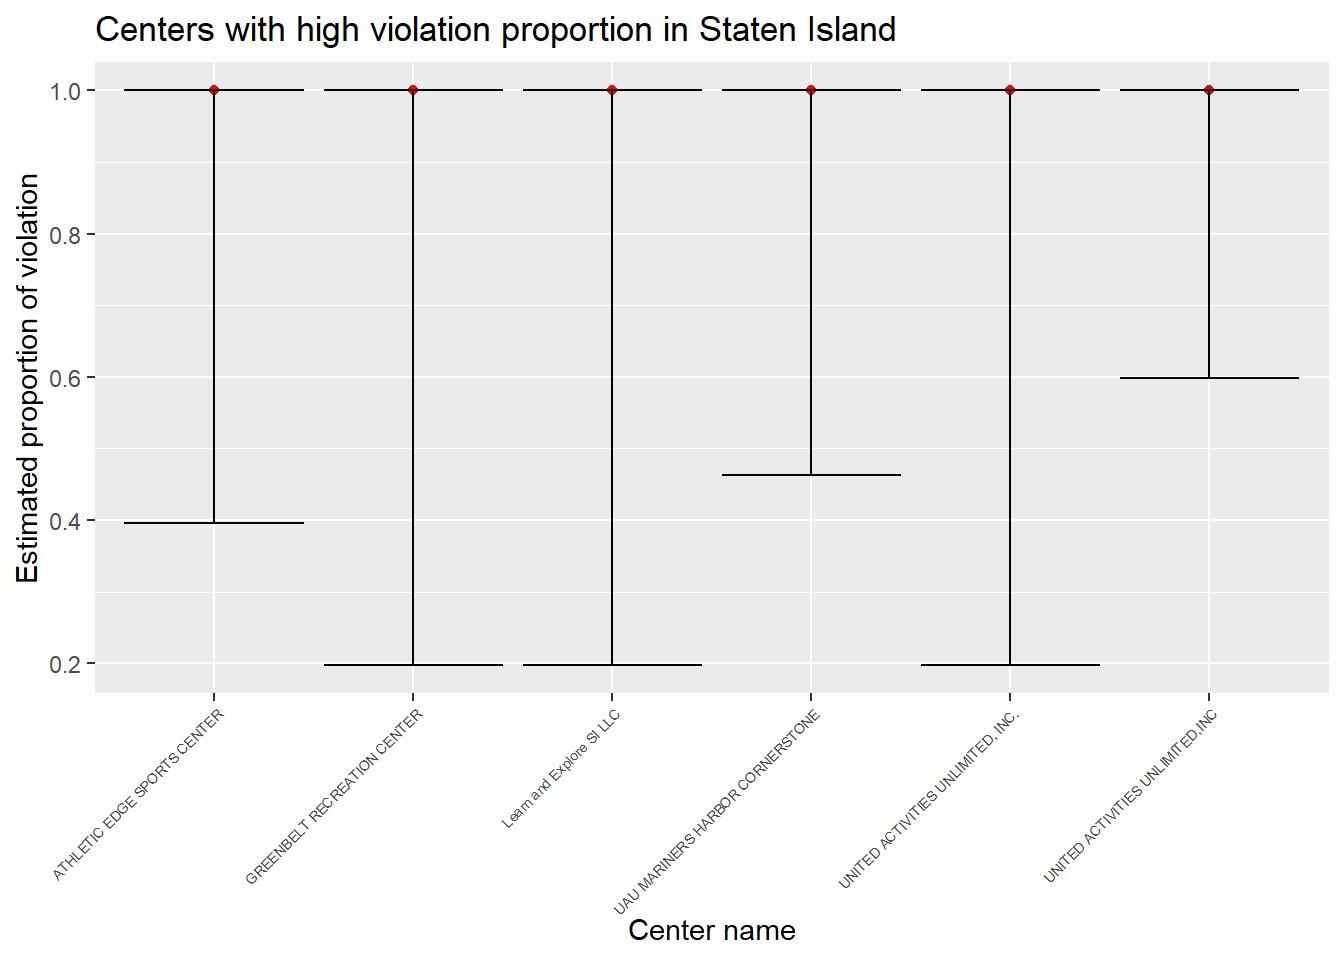
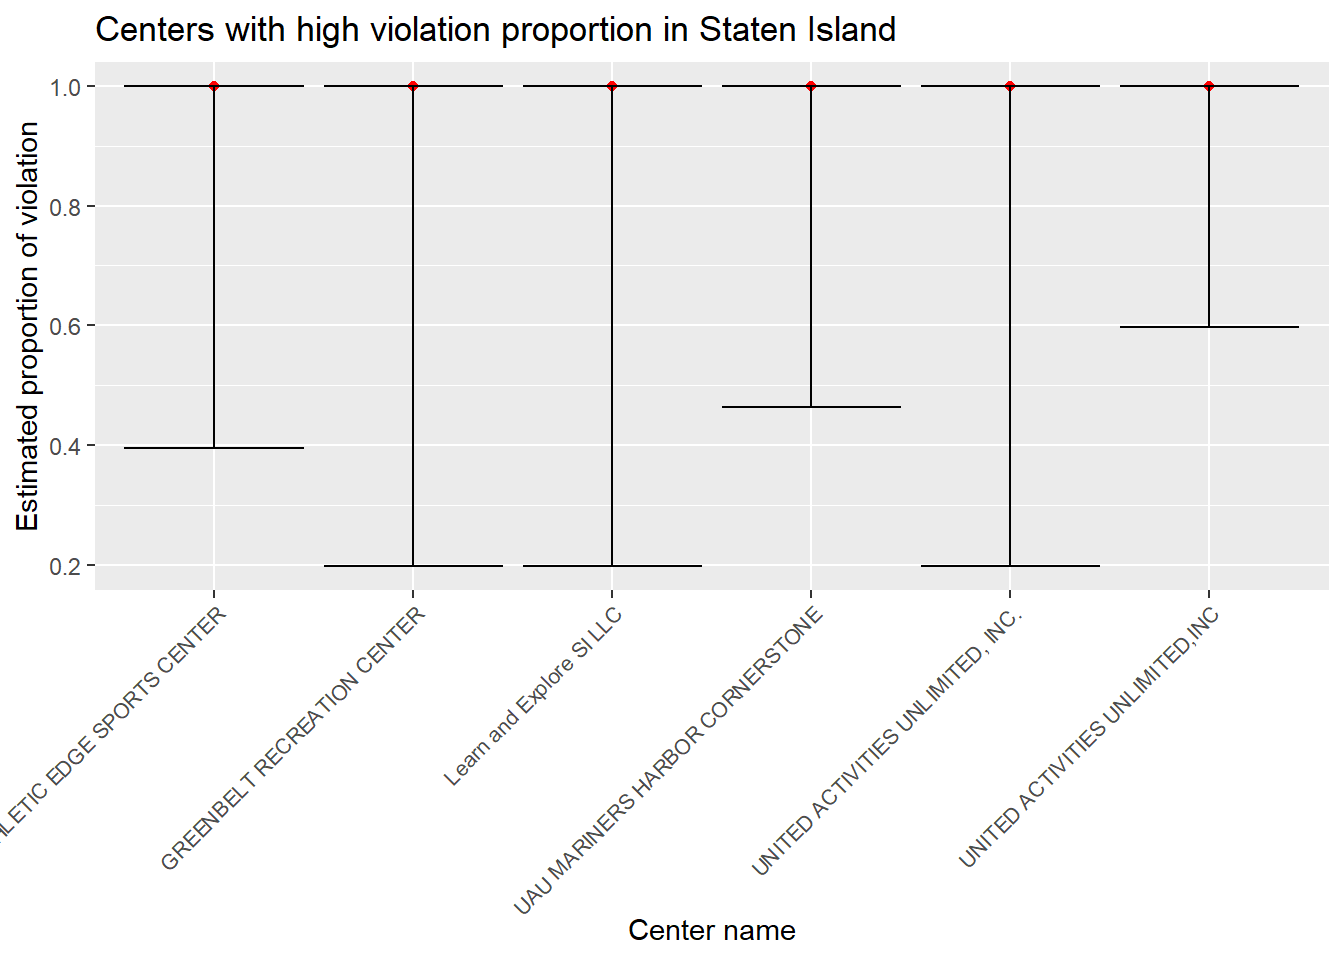
In statistical analysis rmd, change X axis size.

diff --git a/Statistical-analysis.html b/Statistical-analysis.html
@@ -469,29 +469,7 @@ vio_boro = center_distinct_df_2 %&gt;%
 
 # anova
 fit_borough = lm(n_violate ~ borough, data = vio_boro)
-summary(fit_borough)</code></pre>
-<pre><code>## 
-## Call:
-## lm(formula = n_violate ~ borough, data = vio_boro)
-## 
-## Residuals:
-##     Min      1Q  Median      3Q     Max 
-## -11.547  -4.148  -2.450   0.611 243.852 
-## 
-## Coefficients:
-##                      Estimate Std. Error t value Pr(&gt;|t|)    
-## (Intercept)           11.5468     0.9719  11.881  &lt; 2e-16 ***
-## boroughBROOKLYN       -7.6286     1.1113  -6.865 9.19e-12 ***
-## boroughMANHATTAN      -5.3993     1.1805  -4.574 5.12e-06 ***
-## boroughQUEENS         -5.1575     1.1968  -4.309 1.73e-05 ***
-## boroughSTATEN ISLAND  -8.0968     1.6917  -4.786 1.84e-06 ***
-## ---
-## Signif. codes:  0 &#39;***&#39; 0.001 &#39;**&#39; 0.01 &#39;*&#39; 0.05 &#39;.&#39; 0.1 &#39; &#39; 1
-## 
-## Residual standard error: 13.85 on 1778 degrees of freedom
-## Multiple R-squared:  0.02789,    Adjusted R-squared:  0.0257 
-## F-statistic: 12.75 on 4 and 1778 DF,  p-value: 3.106e-10</code></pre>
-<pre class="r"><code>anova(fit_borough) %&gt;% knitr::kable(caption = &quot;One way anova of violation frequency and borough&quot;)</code></pre>
+anova(fit_borough) %&gt;% knitr::kable(caption = &quot;One way anova of violation frequency and borough&quot;)</code></pre>
 <table>
 <caption>One way anova of violation frequency and borough</caption>
 <thead>
@@ -678,7 +656,7 @@ center_prop_staten %&gt;%
   geom_point(color = &quot;red&quot;) +
   geom_errorbar(aes(ymin = conf.low, ymax = conf.high)) +
 
-  theme(axis.text.x = element_text(angle = 45, hjust = 1, size = rel(0.6))) +
+  theme(axis.text.x = element_text(angle = 45, hjust = 1, size = rel(0.9))) +
   labs( x = &quot;Center name&quot;,
     y = &quot;Estimated proportion of violation&quot;,
     title = &quot;Centers with high violation proportion in Staten Island&quot;)</code></pre>
@@ -708,7 +686,7 @@ center_prop_bronx %&gt;%
   geom_point(color = &quot;red&quot;) +
   geom_errorbar(aes(ymin = conf.low, ymax = conf.high)) +
 
-  theme(axis.text.x = element_text(angle = 45, hjust = 1, size = rel(0.6))) +
+  theme(axis.text.x = element_text(angle = 45, hjust = 1, size = rel(0.8))) +
   labs( x = &quot;Center name&quot;,
     y = &quot;Estimated proportion of violation&quot;,
     title = &quot;Centers with high violation proportion in Bronx&quot;)</code></pre>
@@ -768,7 +746,7 @@ center_prop_brooklyn %&gt;%
   geom_point(color = &quot;red&quot;) +
   geom_errorbar(aes(ymin = conf.low, ymax = conf.high)) +
 
-  theme(axis.text.x = element_text(angle = 45, hjust = 1, size = rel(0.6))) +
+  theme(axis.text.x = element_text(angle = 45, hjust = 1, size = rel(0.8))) +
   labs( x = &quot;Center name&quot;,
     y = &quot;Estimated proportion of violation&quot;,
     title = &quot;Centers with high violation proportion in Brooklyn&quot;)</code></pre>
@@ -807,10 +785,10 @@ center_prop_manhattan %&gt;%
 </div>
 <div id="conclusion-2" class="section level3">
 <h3><em>Conclusion</em></h3>
-<p>From the plot, we can see the names and estimates of the centers with
-high violation proportion in each borough. These plots can serve as good
-reference for NYC residents when selecting the childcare centers for
-their kids.</p>
+<p>From the plots, we can see the names and estimates of the centers
+with high violation proportion in each borough. These plots can serve as
+good reference for NYC residents when selecting the childcare centers
+for their kids.</p>
 </div>
 </div>
 
